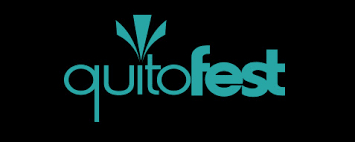
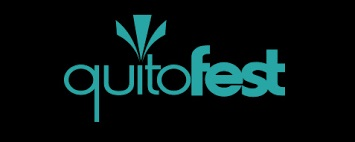
Css header y Section concierto

diff --git a/css/styles.css b/css/styles.css
@@ -33,6 +33,9 @@ h1,h2,h3{
 p,a{
 font-family: var(--fuentePrincipal);
 }
+a{
+    text-decoration: none;
+}
 
 h1{
     font-size: 4.4rem;
@@ -58,4 +61,124 @@ img{
     max-width: 120rem;
     width: 90%;
     margin: 0 auto;
+}
+
+/**  Header **/
+.header-logo{
+    width: 20rem;
+    
+}
+@media(min-width: 768px) {
+    .header-logo{
+       margin-left: -3rem;
+    }
+}
+.header-contenedor{
+   display: flex;
+    flex-direction: column;
+    align-items: center;
+    gap: 1rem;
+}
+@media(min-width: 768px) {
+    .header-contenedor{
+        display: flex;
+        flex-direction: row;
+        justify-content: space-between;
+    }
+}
+.header{
+    background-image:url(../img/hero.jpg);
+    background-repeat: no-repeat;
+    background-size: cover;
+    background-position: center center;
+    padding-bottom: 2rem;
+}
+@media(min-width: 768px) {
+    .header{
+        height: 50rem;
+    }
+}
+.comprar a,
+.navegacion a{
+    color:var(--amarillo);
+    font-weight: 700;
+    padding: .5rem;
+    border-radius: 10px;
+    text-align: center;
+}
+
+.comprar{
+    margin: 5rem  0 0 0;
+}
+.comprar a{
+    margin-left: 1rem;
+    background-color: var(--celeste);
+    color: var(--negro);
+}
+.comprar a:hover {
+    background-color: var(--negro);
+    color: var(--blanco);
+}
+@media(min-width: 768px) {
+    .comprar{
+        display: flex;
+        justify-content: flex-end;
+        margin: 0  0 1rem 0;
+    }
+    
+}
+.navegacion a {
+    display: block;
+    margin-top: 1rem;
+}
+@media(min-width: 768px) {
+    .navegacion a {
+        display: inline;
+    }
+}
+
+.fecha-concierto{
+    background-color: var(--celeste);
+    text-align: center;
+    padding: 1rem 0;
+    border-radius:20px;
+    
+}
+@media(min-width: 768px) {
+    .fecha-concierto{
+        width: 40rem;
+        margin-top: 10rem;
+    }
+}
+.fecha-concierto p{
+    font-family: var(--fuenteSecundaria);
+    font-size: 2rem;
+}
+
+/** CONCIERTO **/
+@media(min-width: 768px) {
+    .concierto{
+        display: grid;
+        grid-template-columns: repeat(3,1fr);
+        gap: 2rem;
+    }
+}
+
+.informacion-concierto img{
+    width: 10rem;
+}
+
+.informacion-concierto h2{
+    text-align: center;
+    margin-top:1rem;
+    color: var(--verde);
+    font-weight: 700;
+}
+.informacion-concierto p{
+    text-align: center;
+}
+@media(min-width: 768px) {
+    .informacion-concierto p{
+        text-align: left;
+    }
 }

diff --git a/index.html b/index.html
@@ -13,8 +13,10 @@
 </head>
 <body>
     <header class="header">
-        <div> <img src="img/header.jpg" alt="Logo Quito"></div>
-        <div class="div">
+        <div class="header-contenedor">
+            <img class="header-logo" src="img/header.png" alt="Logo Quito">
+            
+        <div>
             <div class="comprar">
                 <a href="comprar.html">Comprar</a>
                 <a href="comprar.html">Reservar</a>
@@ -28,8 +30,9 @@
                 </nav>
             </div>
         </div>
+        </div>
 
-        <div class="contenedor">
+        <div class="contenedor fecha-concierto">
             <p>Diciembre 5,6,7-2021</p>
             <p>Plaza San Fransisco, El Panecillo</p>
             <p>Quito,Ecuador</p>
@@ -38,22 +41,22 @@
 
     <section>
         <h1 class="text-center">Quito Music Fest</h1>
-        <div class="contenedor">
+        <div class="contenedor concierto">
             <div class="informacion-concierto">
-                <img src="img/color.png" alt="colores">
                 <h2>Colores</h2>
+                <img class="contenedor" src="img/color.png"  alt="colores">
                 <p>Lorem ipsum dolor sit amet consectetur adipisicing elit. Veritatis libero, obcaecati ad architecto dicta ipsam maiores. Expedita error distinctio repellat. Cumque voluptas eaque ex atque tenetur dolorum nulla aut id.</p>
             </div>
 
             <div class="informacion-concierto">
-                <img src="img/music.png" alt="notas musicales">
                 <h2>Musica</h2>
+                <img class="contenedor" src="img/music.png" alt="notas musicales">
                 <p>Lorem ipsum dolor sit amet consectetur adipisicing elit. Veritatis libero, obcaecati ad architecto dicta ipsam maiores. Expedita error distinctio repellat. Cumque voluptas eaque ex atque tenetur dolorum nulla aut id.</p>
             </div>
 
             <div class="informacion-concierto">
-                <img src="img/artificiales.png" alt="juegos artificiales">
                 <h2>Juegos Artificiales</h2>
+                <img class="contenedor" src="img/artificiales.png" alt="juegos artificiales">
                 <p>Lorem ipsum dolor sit amet consectetur adipisicing elit. Veritatis libero, obcaecati ad architecto dicta ipsam maiores. Expedita error distinctio repellat. Cumque voluptas eaque ex atque tenetur dolorum nulla aut id.</p>
             </div>
         </div>
